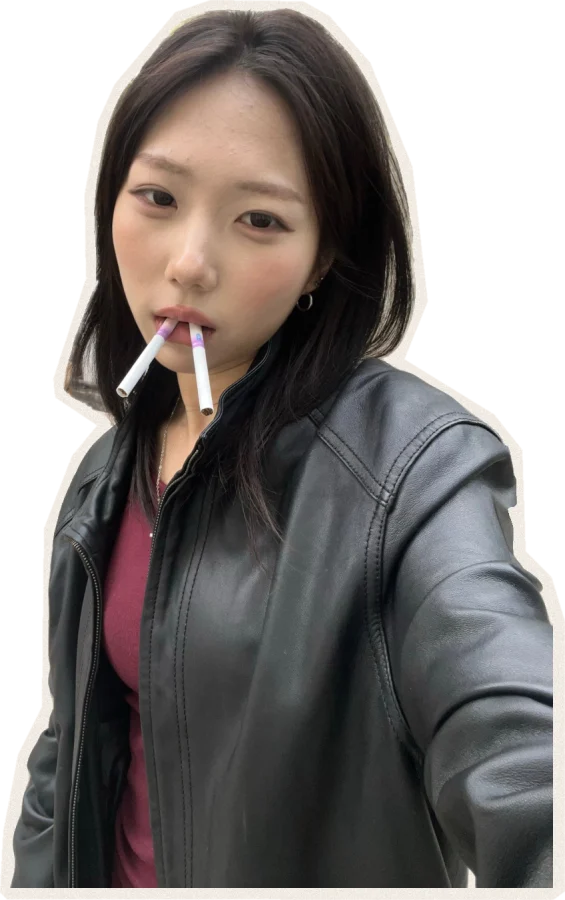
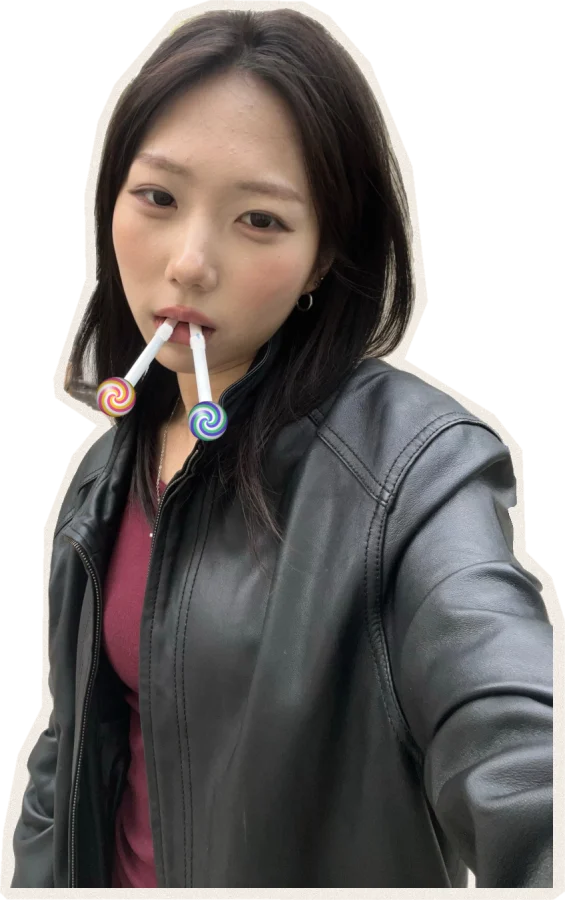
Artists: swap cigarettes for lollipops (강태영, 김지민)
Claude-Session: https://claude.ai/code/session_015zQpSkvZ78uAkqzBCZ1kuX

diff --git a/index.html b/index.html
@@ -14,7 +14,7 @@
 <meta property="og:locale" content="ko_KR">
 <meta property="og:title" content="RAP-IN 26-2 정기공연 SAGGING 2026">
 <meta property="og:description" content="12월 3일(목) 19:00 경희대 국제캠퍼스 학생회관 소극장. 셋리스트는 11/27(금) 22:00 공개">
-<meta property="og:image" content="https://sagging2026.vercel.app/assets/img/og/og-image.jpg?v=11231755">
+<meta property="og:image" content="https://sagging2026.vercel.app/assets/img/og/og-image.jpg?v=11231802">
 <meta property="og:image:width" content="1200">
 <meta property="og:image:height" content="630">
 <meta property="og:image:alt" content="SAGGING 2026, 12.03 목 19:00 학생회관 소극장">
@@ -23,16 +23,16 @@
 <meta name="twitter:card" content="summary_large_image">
 <meta name="twitter:title" content="RAP-IN 26-2 정기공연 SAGGING 2026">
 <meta name="twitter:description" content="12월 3일(목) 19:00 경희대 국제캠퍼스 학생회관 소극장. 셋리스트는 11/27(금) 22:00 공개">
-<meta name="twitter:image" content="https://sagging2026.vercel.app/assets/img/og/og-image.jpg?v=11231755">
+<meta name="twitter:image" content="https://sagging2026.vercel.app/assets/img/og/og-image.jpg?v=11231802">
 
 <link rel="icon" href="assets/img/favicon.svg" type="image/svg+xml">
 <link rel="preload" href="assets/fonts/PretendardVariable.woff2" as="font" type="font/woff2" crossorigin>
 <link rel="preload" href="assets/audio/bgm.mp3" as="audio" type="audio/mpeg">
-<link rel="stylesheet" href="assets/css/base.css?v=11231755">
-<link rel="stylesheet" href="assets/css/layout.css?v=11231755">
-<link rel="stylesheet" href="assets/css/poster.css?v=11231755">
-<link rel="stylesheet" href="assets/css/program.css?v=11231755">
-<link rel="stylesheet" href="assets/css/panels.css?v=11231755">
+<link rel="stylesheet" href="assets/css/base.css?v=11231802">
+<link rel="stylesheet" href="assets/css/layout.css?v=11231802">
+<link rel="stylesheet" href="assets/css/poster.css?v=11231802">
+<link rel="stylesheet" href="assets/css/program.css?v=11231802">
+<link rel="stylesheet" href="assets/css/panels.css?v=11231802">
 <script>document.documentElement.classList.replace("no-js","js");</script>
 </head>
 <body>
@@ -172,6 +172,6 @@
 <!-- GSAP은 외부 CDN 대신 저장소 안에 같이 둬요 (공연장 와이파이가 불안정해도 동작하게) -->
 <script src="assets/vendor/gsap.min.js" defer></script>
 <script src="assets/vendor/ScrollTrigger.min.js" defer></script>
-<script type="module" src="assets/js/main.js?v=11231755"></script>
+<script type="module" src="assets/js/main.js?v=11231802"></script>
 </body>
 </html>

diff --git a/assets/js/main.js b/assets/js/main.js
@@ -1,13 +1,13 @@
 // 진입점: 데이터 불러오기 → 언어 적용 → 순서표 그리기 → 포스터 모션 시작
-import { loadJSON } from "./data.js?v=11231755";
+import { loadJSON } from "./data.js?v=11231802";
 import { initI18n, t, getLang, onLangChange } from "./i18n.js";
-import { renderInfo } from "./sections/info.js?v=11231755";
-import { renderArtists } from "./sections/artists.js?v=11231755";
-import { renderProgram } from "./sections/program.js?v=11231755";
-import { initPoster } from "./motion/poster.js?v=11231755";
-import { initPanels } from "./sections/panels.js?v=11231755";
-import { initBgm } from "./bgm.js?v=11231755";
-import { initBeat } from "./motion/beat.js?v=11231755";
+import { renderInfo } from "./sections/info.js?v=11231802";
+import { renderArtists } from "./sections/artists.js?v=11231802";
+import { renderProgram } from "./sections/program.js?v=11231802";
+import { initPoster } from "./motion/poster.js?v=11231802";
+import { initPanels } from "./sections/panels.js?v=11231802";
+import { initBgm } from "./bgm.js?v=11231802";
+import { initBeat } from "./motion/beat.js?v=11231802";
 
 const reduced = matchMedia("(prefers-reduced-motion: reduce)").matches;
 if (reduced) document.documentElement.classList.add("reduced");
